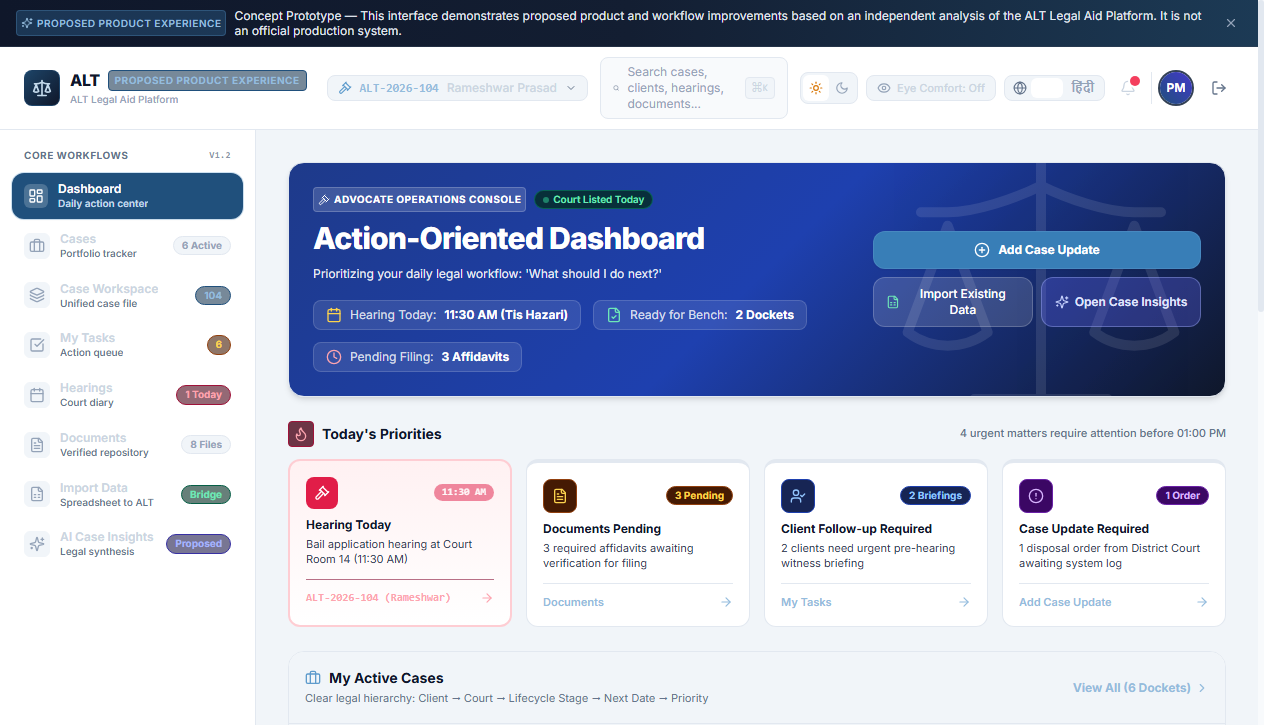
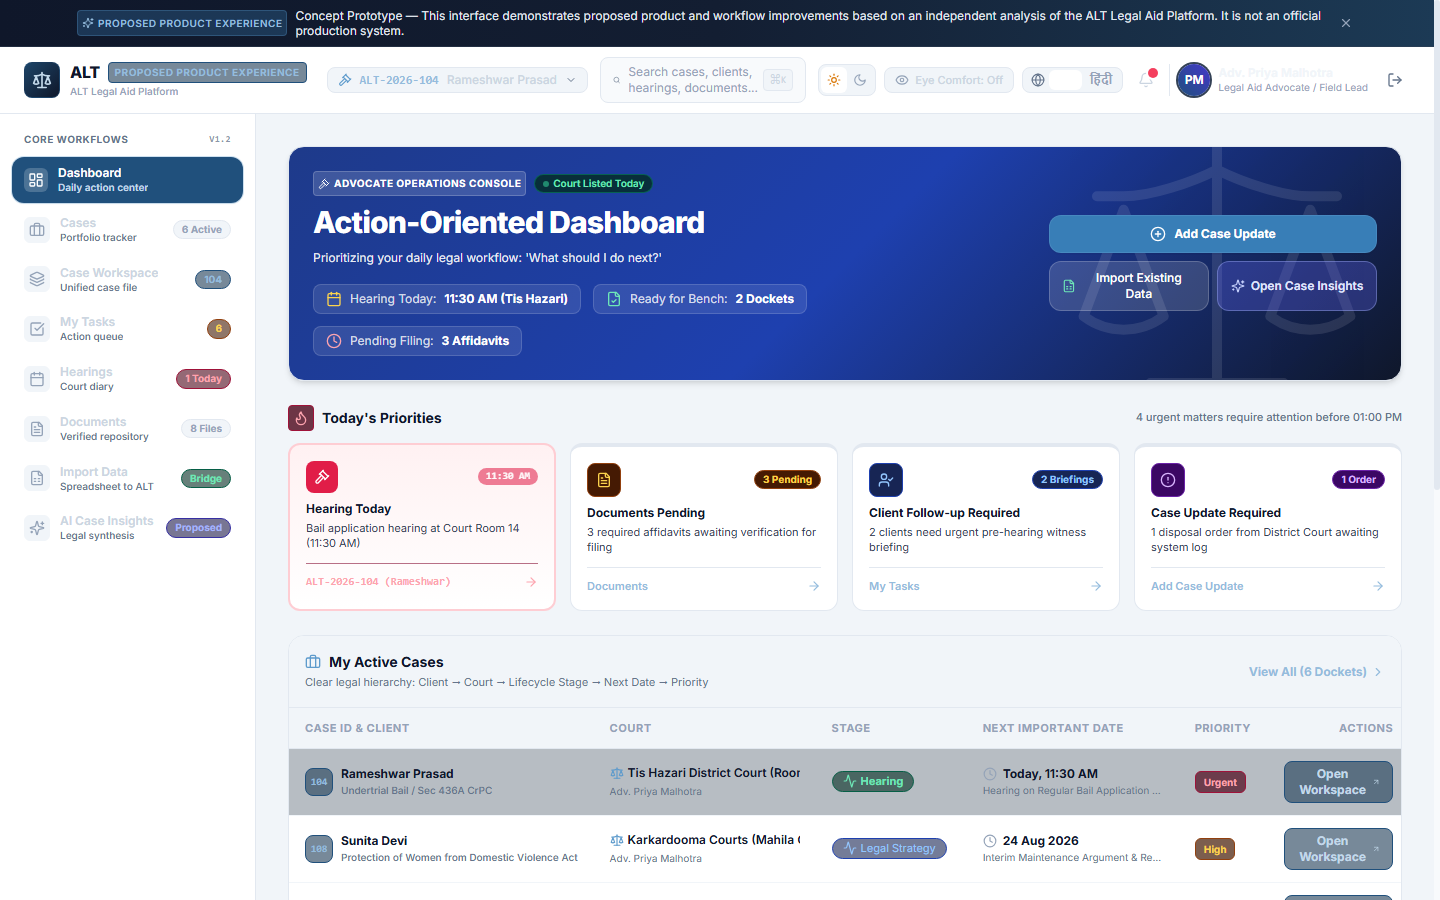
docs: refresh README with high-resolution 1440px Light Mode screenshots and clean layout

diff --git a/src/components/layout/DisclaimerBanner.tsx b/src/components/layout/DisclaimerBanner.tsx
@@ -9,20 +9,20 @@ export const DisclaimerBanner: React.FC = () => {
   if (!isVisible) return null;
 
   return (
-    <div className="bg-gradient-to-r from-slate-900 via-navy-850 to-alt-900 text-white text-xs py-2 px-4 shadow-sm border-b border-slate-700/50">
+    <div className="bg-slate-100/90 text-slate-800 border-b border-slate-200/80 dark:bg-gradient-to-r dark:from-slate-900 dark:via-navy-850 dark:to-alt-900 dark:text-white dark:border-slate-700/50 text-xs py-2 px-4 shadow-xs transition-colors">
       <div className="max-w-7xl mx-auto flex items-center justify-between gap-3">
         <div className="flex items-center gap-2 flex-1">
-          <span className="flex items-center justify-center p-1 rounded bg-alt-500/30 text-alt-300 font-semibold uppercase tracking-wider text-[10px] shrink-0 border border-alt-400/30">
+          <span className="flex items-center justify-center p-1 rounded bg-alt-100 text-alt-800 border border-alt-200 dark:bg-alt-500/30 dark:text-alt-300 dark:border-alt-400/30 font-semibold uppercase tracking-wider text-[10px] shrink-0">
             <Sparkles className="w-3 h-3 mr-1" />
             {t.conceptBadge}
           </span>
-          <p className="text-slate-200 leading-tight">
+          <p className="text-slate-700 dark:text-slate-200 leading-tight">
             {t.disclaimerBanner}
           </p>
         </div>
         <button
           onClick={() => setIsVisible(false)}
-          className="text-slate-400 hover:text-white p-1 rounded hover:bg-white/10 transition-colors"
+          className="text-slate-400 hover:text-slate-700 hover:bg-slate-200/60 dark:text-slate-400 dark:hover:text-white dark:hover:bg-white/10 p-1 rounded transition-colors"
           title={t.dismiss}
         >
           <X className="w-3.5 h-3.5" />

diff --git a/README.md b/README.md
@@ -33,17 +33,6 @@ Developed as part of a **Strategy & Product Development Assignment**, this proto
 
 ## Product Preview
 
-### Access Portal
-
-<p align="center">
-  <img src="docs/images/login-page.png" alt="ALT Legal Aid Platform Access Portal" width="820" />
-</p>
-
-<p align="center">
-  <em>Institutional access interface for exploring the platform workflow.</em>
-</p>
-
-
 ### Executive Dashboard
 
 <p align="center">
@@ -63,6 +52,17 @@ Developed as part of a **Strategy & Product Development Assignment**, this proto
 
 <p align="center">
   <em>Structured workspace for case lifecycle tracking, information, notes, and operational actions.</em>
+</p>
+
+
+### Hearings Management
+
+<p align="center">
+  <img src="docs/images/hearings.png" alt="ALT Legal Aid Platform Hearings Management" width="820" />
+</p>
+
+<p align="center">
+  <em>Court diary schedule categorized by court dates with courtroom briefs and required filing checklists.</em>
 </p>
 
 
